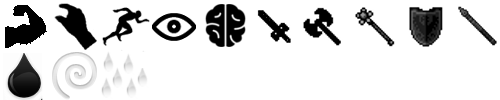
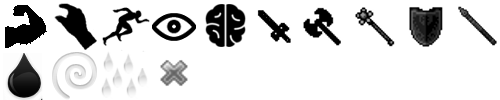
Added close button to attack interface

Changed region(s): [[0.3, 0.6, 0.39, 0.87]]

diff --git a/Divine Right/Divine Right/Divine Right/InterfaceComponents/Components/AttackActorComponent.cs b/Divine Right/Divine Right/Divine Right/InterfaceComponents/Components/AttackActorComponent.cs
@@ -57,6 +57,8 @@ namespace Divine_Right.InterfaceComponents.Components
         private Rectangle targetHealthStatusRect;
         private Rectangle attackButtonRectangle;
 
+        private Rectangle closeRect;
+
         private SpriteFont font;
 
         #endregion
@@ -118,6 +120,8 @@ namespace Divine_Right.InterfaceComponents.Components
             //If we have a particular chosen stance, draw a white box underneath to show its selected
             var seperator = SpriteManager.GetSprite(ColourSpriteName.WHITE);
 
+            var close = SpriteManager.GetSprite(InterfaceSpriteName.CLOSE);
+
             //pick the stance
             string stance = "Unknown Stance";
 
@@ -163,6 +167,8 @@ namespace Divine_Right.InterfaceComponents.Components
 
             batch.Draw(content.Load<Texture2D>(scrollBackground.path), attackButtonRectangle, scrollBackground.sourceRectangle, Color.DarkGray);
             batch.DrawString(font, "ATTACK", attackButtonRectangle, Alignment.Center, Color.White);
+
+            batch.Draw(content, close, closeRect, Color.White);
 
             if (CombatManager.CalculateHitPercentage(attacker, TargetActor, AttackLocation.HEAD) != -1) //not present
             {
@@ -314,6 +320,14 @@ namespace Divine_Right.InterfaceComponents.Components
 
             }
 
+            if (closeRect.Contains(point))
+            {
+                //Then close it
+                destroy = true;
+
+                return true;
+            }
+
             return visible; //If it's visible - block it. Otherwise do nothing
         }
 
@@ -375,6 +389,8 @@ namespace Divine_Right.InterfaceComponents.Components
             chestPercentageRect = new Rectangle(locationX + 220, locationY + 37, 55, 50);
             rightArmPercentageRect = new Rectangle(locationX + 260, locationY + 35, 33, 85);
             legsPercentageRect = new Rectangle(locationX + 223, locationY + 108, 50, 87);
+
+            closeRect = new Rectangle(locationX +270,locationY+ 0, 30, 30);
         }
 
         public bool IsModal()

diff --git a/Divine Right/Objects/Graphics/SpriteManager.cs b/Divine Right/Objects/Graphics/SpriteManager.cs
@@ -423,7 +423,8 @@ namespace DRObjects.Graphics
             interfaceSprites[(int)InterfaceSpriteName.BLOOD] = new SpriteData(CHARACTER_SHEET, new Rectangle(0, 50, 50, 50));
             interfaceSprites[(int)InterfaceSpriteName.SPIRAL] = new SpriteData(CHARACTER_SHEET, new Rectangle(50, 50, 50, 50));
             interfaceSprites[(int)InterfaceSpriteName.BLEEDING] = new SpriteData(CHARACTER_SHEET, new Rectangle(100, 50, 50, 50));
-            
+            interfaceSprites[(int)InterfaceSpriteName.CLOSE] = new SpriteData(CHARACTER_SHEET, new Rectangle(150, 50, 50, 50));
+
             interfaceSprites[(int)InterfaceSpriteName.DEAD] = new SpriteData(@"Graphics/Interface/death", null);
         }
 

diff --git a/Divine Right/Objects/Graphics/InterfaceSpriteName.cs b/Divine Right/Objects/Graphics/InterfaceSpriteName.cs
@@ -9,7 +9,7 @@ namespace DRObjects.Graphics
     {
         SCROLL,
         PAPER_TEXTURE,
-        
+
         HEAD,
         LEFT_ARM,
         CHEST,
@@ -31,6 +31,7 @@ namespace DRObjects.Graphics
         DEAD,
 
         SPIRAL,
-        BLEEDING
+        BLEEDING,
+        CLOSE
     }
 }
